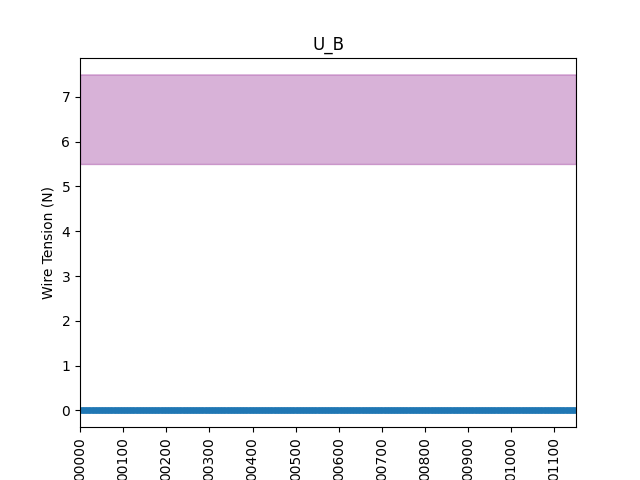
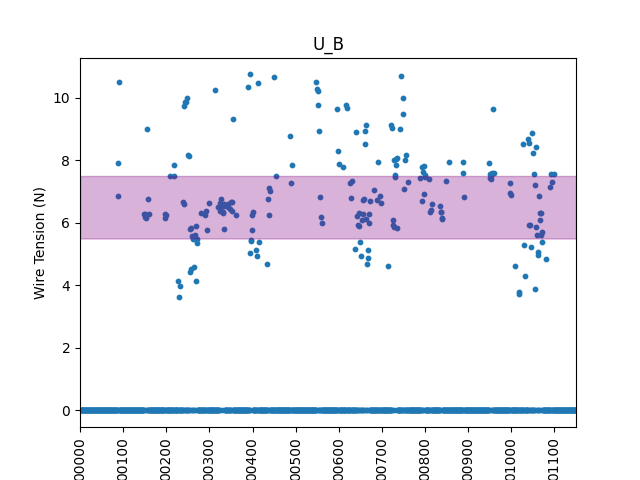
Added histogram plotting function in dwa_plot.py

diff --git a/playground/dwa_plot.py b/playground/dwa_plot.py
@@ -22,6 +22,7 @@ import matplotlib.pyplot as plt
 import math as m
 import os
 import sys
+import numpy as np
 
 #############
 # loader
@@ -154,6 +155,33 @@ def plot_wires(dictionary ,A_B, stdev):
     #plt.show()
 
 
+
+def plot_wires_hist(dictionary ,A_B):
+    # plots the given 'A_B' wire plane
+    # now to plot this with a function
+    n_bins = 20
+
+    y, x, _ = plt.hist(dictionary[str(A_B)]['wt'], n_bins)
+
+    # fill between given values for tolerance
+    plt.fill_between(np.linspace(5.5,7.5,num=3), 0, y.max(), color = 'purple', alpha = 0.3)
+
+    # limit range
+    #plt.xlim([0,dictionary[str(A_B)]['wno'][-1:]])
+
+    # remove a bunch of the ticks, currently every 100
+    #ticks = list(dictionary[str(A_B)]['wno'])
+    #plt.xticks([ticks[i] for i in range(len(ticks)) if i % 100 == 0], rotation='vertical')
+
+    # labels
+    plt.xlabel("Wire Tension (N)")
+
+    # code this more complexly
+    plt.title(str(A_B))
+
+    #plt.show()
+
+
 ## main path
 def main(path, stdev = True, first_key = ""):
 
@@ -194,6 +222,13 @@ def main(path, stdev = True, first_key = ""):
         # close the plot
         plt.close()
 
+        # plot histogram as well
+        plot_wires_hist(dicto, list(dicto.keys())[i])
+
+        # save then close
+        plt.savefig(i_path + "/" + str(list(dicto.keys())[i]) + "_hist")
+        # close the plot
+        plt.close()
 
 
         # Compiled image
